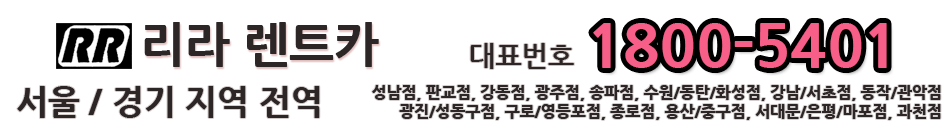
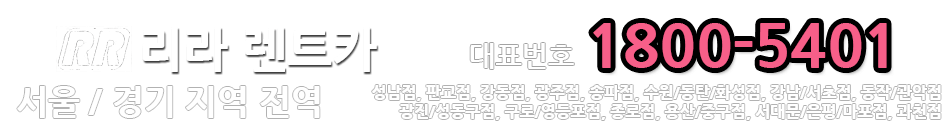
메인이미지, 이벤트 이미지 변경

diff --git a/index.html b/index.html
@@ -79,7 +79,7 @@
 </div>
 
 <div class="row">
-    <img src="/img/event/event_20160216_kyungin.png">
+    <img src="/img/event/event_20160529_kyungin.png">
 </div>
 
 					<a class="anchor" name="domestic_car" id="domestic_car"></a>
